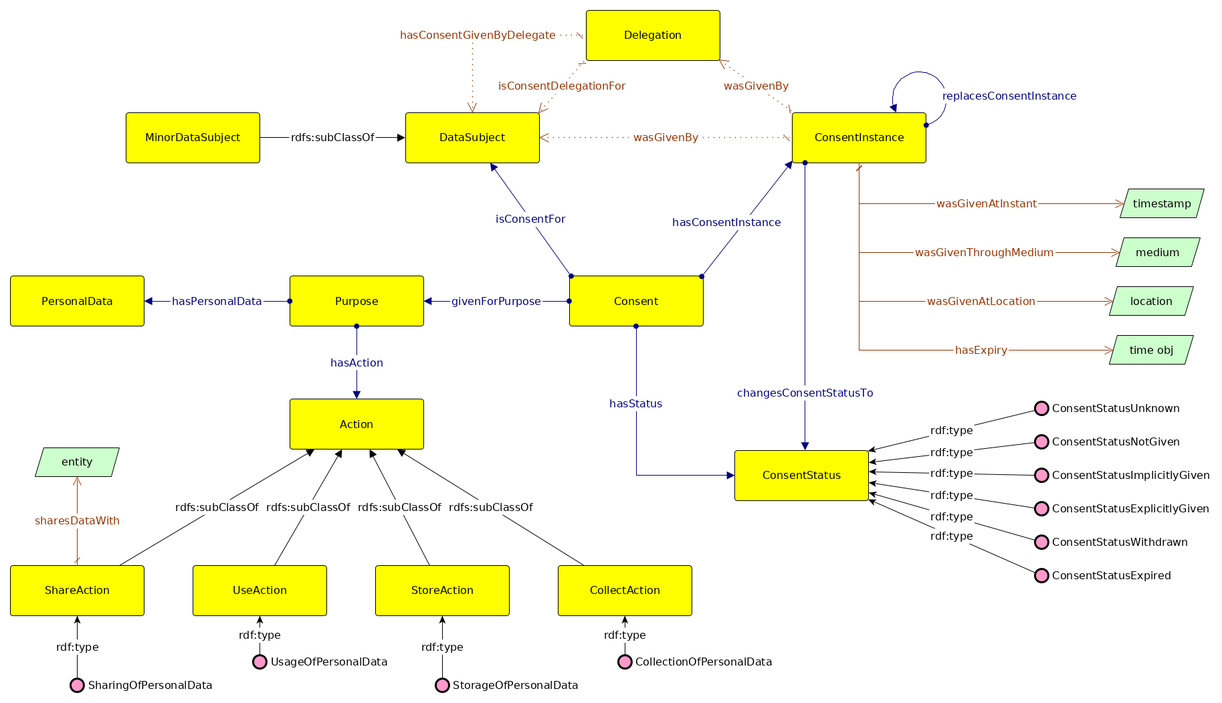
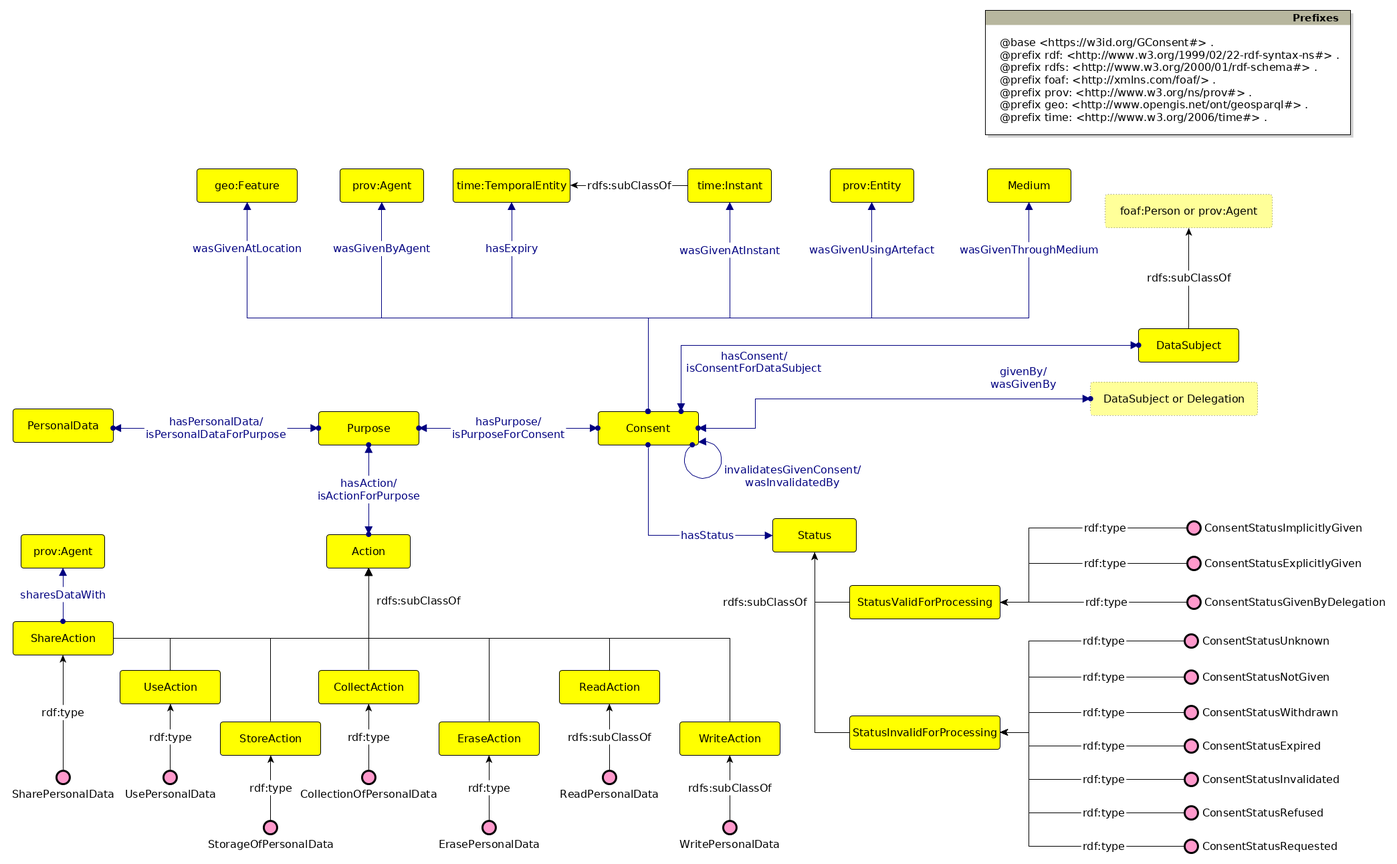
WIP

diff --git a/docs/sections/overview-en.html b/docs/sections/overview-en.html
@@ -2,12 +2,10 @@
 <span class="markdown">
 This ontology has the following classes and properties.</span>
 <h4>Classes</h4>
+<h5>Top-level Concepts</h5>
 <ul class="hlist">
    <li>
       <a href="#Action" title="https://w3id.org/GConsent#Action">Action</a>
-   </li>
-   <li>
-      <a href="#CollectAction" title="https://w3id.org/GConsent#CollectAction">Collect</a>
    </li>
    <li>
       <a href="#Consent" title="https://w3id.org/GConsent#Consent">Consent</a>
@@ -17,14 +15,6 @@ This ontology has the following classes and properties.</span>
    </li>
    <li>
       <a href="#Delegation" title="https://w3id.org/GConsent#Delegation">Delegation</a>
-   </li>
-   <li>
-      <a href="#EraseData" title="https://w3id.org/GConsent#EraseData">Erase</a>
-   </li>
-   <li>
-      <a href="#http://www.w3.org/2006/time#Instant" title="http://www.w3.org/2006/time#Instant">
-         <span>instant</span>
-      </a>
    </li>
    <li>
       <a href="#Medium" title="https://w3id.org/GConsent#Medium">Medium</a>
@@ -39,32 +29,84 @@ This ontology has the following classes and properties.</span>
       <a href="#Purpose" title="https://w3id.org/GConsent#Purpose">Purpose</a>
    </li>
    <li>
-      <a href="#ReadAction" title="https://w3id.org/GConsent#ReadAction">Read</a>
-   </li>
-   <li>
-      <a href="#ShareAction" title="https://w3id.org/GConsent#ShareAction">Share</a>
-   </li>
-   <li>
       <a href="#Status" title="https://w3id.org/GConsent#Status">Status</a>
    </li>
+</ul>
+<h5>Actions</h5>
+<p>Each category or type of action has a default named individual (specified in brackets in the list below) defined in the ontology. For more specitivity, the category can be subclassed, whereas the default named individual can be used to specify the type of action.</p>
+<ul class="hlist">
    <li>
-      <a href="#StatusInvalidForProcessing"
-         title="https://w3id.org/GConsent#StatusInvalidForProcessing">Status invalid for Processing</a>
+      <a href="#CollectAction" title="https://w3id.org/GConsent#CollectAction">Collect</a> (<a href="#CollectPersonalData" title="https://w3id.org/GConsent#CollectPersonalData">Collect Personal Data</a>)
    </li>
    <li>
-      <a href="#StatusValidForProcessing"
-         title="https://w3id.org/GConsent#StatusValidForProcessing">Status valid for Processing</a>
+      <a href="#EraseData" title="https://w3id.org/GConsent#EraseData">Erase</a> (<a href="#ErasePersonalData" title="https://w3id.org/GConsent#ErasePersonalData">Erase Personal Data</a>)
    </li>
    <li>
-      <a href="#StoreAction" title="https://w3id.org/GConsent#StoreAction">Store</a>
+      <a href="#ReadAction" title="https://w3id.org/GConsent#ReadAction">Read</a> (<a href="#ReadPersonalData" title="https://w3id.org/GConsent#ReadPersonalData">Read Personal Data</a>)
    </li>
    <li>
-      <a href="#UseAction" title="https://w3id.org/GConsent#UseAction">Use</a>
+      <a href="#ShareAction" title="https://w3id.org/GConsent#ShareAction">Share</a> (<a href="#SharePersonalData" title="https://w3id.org/GConsent#SharePersonalData">Share Personal Data</a>)
    </li>
    <li>
-      <a href="#WriteAction" title="https://w3id.org/GConsent#WriteAction">Write</a>
+      <a href="#StoreAction" title="https://w3id.org/GConsent#StoreAction">Store</a> (<a href="#StorePersonalData" title="https://w3id.org/GConsent#StorePersonalData">Store Personal Data</a>)
    </li>
-</ul><h4>Object Properties</h4><ul class="hlist">
+   <li>
+      <a href="#UseAction" title="https://w3id.org/GConsent#UseAction">Use</a> (<a href="#UsePersonalData" title="https://w3id.org/GConsent#UsePersonalData">Use Personal Data</a>)
+   </li>
+   <li>
+      <a href="#WriteAction" title="https://w3id.org/GConsent#WriteAction">Write</a> (<a href="#WritePersonalData" title="https://w3id.org/GConsent#WritePersonalData">Write Personal Data</a>)
+   </li>
+</ul>
+<h5>Status</h5>
+<p>Status denotes the state of consent (instance). These are categorised as valid/invalid for the purposes of processing. Each category has some named individuals defined in the ontology specified in the lists below.</p>
+<p><a href="#StatusValidForProcessing"
+         title="https://w3id.org/GConsent#StatusValidForProcessing">Status valid for Processing</a></p>
+<ul class="hlist">
+      <li>
+      <a href="#ConsentStatusExplicitlyGiven"
+         title="https://w3id.org/GConsent#ConsentStatusExplicitlyGiven">Explicitly Given</a>
+   </li>
+   <li>
+      <a href="#ConsentStatusGivenByDelegation"
+         title="https://w3id.org/GConsent#ConsentStatusGivenByDelegation">Given by Delegation</a>
+   </li>
+   <li>
+      <a href="#ConsentStatusImplicitlyGiven"
+         title="https://w3id.org/GConsent#ConsentStatusImplicitlyGiven">Implicitly Given</a>
+   </li>
+</ul>
+<p><a href="#StatusInvalidForProcessing"
+         title="https://w3id.org/GConsent#StatusInvalidForProcessing">Status invalid for Processing</a></p>
+<ul class="hlist">
+     <li>
+      <a href="#ConsentStatusExpired" title="https://w3id.org/GConsent#ConsentStatusExpired">Expired</a>
+   </li>
+     <li>
+      <a href="#ConsentStatusInvalidated"
+         title="https://w3id.org/GConsent#ConsentStatusInvalidated">Invalidated</a>
+   </li>
+   <li>
+      <a href="#ConsentStatusNotGiven" title="https://w3id.org/GConsent#ConsentStatusNotGiven">Not Given</a>
+   </li>
+   <li>
+      
+   </li>
+   <li>
+      <a href="#ConsentStatusRefused" title="https://w3id.org/GConsent#ConsentStatusRefused">Refused</a>
+   </li>
+   <li>
+      <a href="#ConsentStatusRequested" title="https://w3id.org/GConsent#ConsentStatusRequested">Requested</a>
+   </li>
+   <li>
+      <a href="#ConsentStatusUnknown" title="https://w3id.org/GConsent#ConsentStatusUnknown">Unknown</a>
+   </li>
+   <li>
+      <a href="#ConsentStatusWithdrawn" title="https://w3id.org/GConsent#ConsentStatusWithdrawn">Withdrawn</a>
+   </li>
+   <li>
+</ul>
+
+<h4>Object Properties</h4><ul class="hlist">
    <li>
       <a href="#gaveConsent" title="https://w3id.org/GConsent#gaveConsent">gave consent</a>
    </li>
@@ -132,59 +174,10 @@ This ontology has the following classes and properties.</span>
       <a href="#wasInvalidatedBy" title="https://w3id.org/GConsent#wasInvalidatedBy">was invalidated by</a>
    </li>
 </ul><h4>Named Individuals</h4><ul class="hlist">
-   <li>
-      <a href="#CollectPersonalData" title="https://w3id.org/GConsent#CollectPersonalData">Collect Personal Data</a>
-   </li>
-   <li>
-      <a href="#ErasePersonalData" title="https://w3id.org/GConsent#ErasePersonalData">Erase Personal Data</a>
-   </li>
-   <li>
-      <a href="#ConsentStatusExpired" title="https://w3id.org/GConsent#ConsentStatusExpired">Expired</a>
-   </li>
-   <li>
-      <a href="#ConsentStatusExplicitlyGiven"
-         title="https://w3id.org/GConsent#ConsentStatusExplicitlyGiven">Explicitly Given</a>
-   </li>
-   <li>
-      <a href="#ConsentStatusGivenByDelegation"
-         title="https://w3id.org/GConsent#ConsentStatusGivenByDelegation">Given by Delegation</a>
-   </li>
-   <li>
-      <a href="#ConsentStatusImplicitlyGiven"
-         title="https://w3id.org/GConsent#ConsentStatusImplicitlyGiven">Implicitly Given</a>
-   </li>
-   <li>
-      <a href="#ConsentStatusInvalidated"
-         title="https://w3id.org/GConsent#ConsentStatusInvalidated">Invalidated</a>
-   </li>
-   <li>
-      <a href="#ConsentStatusNotGiven" title="https://w3id.org/GConsent#ConsentStatusNotGiven">Not Given</a>
-   </li>
-   <li>
-      <a href="#ReadPersonalData" title="https://w3id.org/GConsent#ReadPersonalData">Read Personal Data</a>
-   </li>
-   <li>
-      <a href="#ConsentStatusRefused" title="https://w3id.org/GConsent#ConsentStatusRefused">Refused</a>
-   </li>
-   <li>
-      <a href="#ConsentStatusRequested" title="https://w3id.org/GConsent#ConsentStatusRequested">Requested</a>
-   </li>
-   <li>
-      <a href="#SharePersonalData" title="https://w3id.org/GConsent#SharePersonalData">Share Personal Data</a>
-   </li>
-   <li>
-      <a href="#StorePersonalData" title="https://w3id.org/GConsent#StorePersonalData">Store Personal Data</a>
-   </li>
-   <li>
-      <a href="#ConsentStatusUnknown" title="https://w3id.org/GConsent#ConsentStatusUnknown">Unknown</a>
-   </li>
-   <li>
-      <a href="#UsePersonalData" title="https://w3id.org/GConsent#UsePersonalData">Use Personal Data</a>
-   </li>
-   <li>
-      <a href="#ConsentStatusWithdrawn" title="https://w3id.org/GConsent#ConsentStatusWithdrawn">Withdrawn</a>
-   </li>
-   <li>
-      <a href="#WritePersonalData" title="https://w3id.org/GConsent#WritePersonalData">Write Personal Data</a>
+
+ 
+
+ 
+      
    </li>
 </ul><iframe align="center" width="100%" height ="500px" src="webvowl/index.html#ontology"></iframe> 

diff --git a/docs/OOPSevaluation/oopsEval.html b/docs/OOPSevaluation/oopsEval.html
@@ -67,7 +67,7 @@ P08. Missing annotations<span style="float: right;">6 cases detected. <span clas
 </div>
 <div id="collapse0" class="panel-collapse collapse">
 <div class="panel-body">
-<p>This pitfall consists in creating an ontology element and failing to provide human readable annotations attached to it. Consequently, ontology elements lack annotation properties that label them (e.g. rdfs:label, lemon:LexicalEntry, skos:prefLabel or skos:altLabel) or that define them (e.g. rdfs:comment or dc:description). This pitfall is related to the guidelines provided in [5].	</p><p>This pitfall affects to the following ontology elements: </p><ul><li><a href="http://www.w3.org/2006/time#TemporalEntity" target="_blank">http://www.w3.org/2006/time#TemporalEntity</a></li><li><a href="http://www.w3.org/2003/01/geo/wgs84_pos#Feature" target="_blank">http://www.w3.org/2003/01/geo/wgs84_pos#Feature</a></li><li><a href="http://www.w3.org/ns/prov#Agent" target="_blank">http://www.w3.org/ns/prov#Agent</a></li><li><a href="http://www.w3.org/2006/time#Instant" target="_blank">http://www.w3.org/2006/time#Instant</a></li><li><a href="http://xmlns.com/foaf/Person" target="_blank">http://xmlns.com/foaf/Person</a></li><li><a href="http://www.w3.org/ns/prov#Entity" target="_blank">http://www.w3.org/ns/prov#Entity</a></li></ul></div>
+<p>This pitfall consists in creating an ontology element and failing to provide human readable annotations attached to it. Consequently, ontology elements lack annotation properties that label them (e.g. rdfs:label, lemon:LexicalEntry, skos:prefLabel or skos:altLabel) or that define them (e.g. rdfs:comment or dc:description). This pitfall is related to the guidelines provided in [5].	</p><p>This pitfall affects to the following ontology elements: </p><ul><li><a href="http://www.w3.org/ns/prov#Agent" target="_blank">http://www.w3.org/ns/prov#Agent</a></li><li><a href="http://www.w3.org/2003/01/geo/wgs84_pos#Feature" target="_blank">http://www.w3.org/2003/01/geo/wgs84_pos#Feature</a></li><li><a href="http://www.w3.org/ns/prov#Entity" target="_blank">http://www.w3.org/ns/prov#Entity</a></li><li><a href="http://www.w3.org/2006/time#Instant" target="_blank">http://www.w3.org/2006/time#Instant</a></li><li><a href="http://www.w3.org/2006/time#TemporalEntity" target="_blank">http://www.w3.org/2006/time#TemporalEntity</a></li><li><a href="http://xmlns.com/foaf/Person" target="_blank">http://xmlns.com/foaf/Person</a></li></ul></div>
 </div>
 </div>
 <div class="panel panel-default">
@@ -91,7 +91,7 @@ P13. Inverse relationships not explicitly declared<span style="float: right;">9 
 </div>
 <div id="collapse2" class="panel-collapse collapse">
 <div class="panel-body">
-<p>This pitfall appears when any relationship (except for those that are defined as symmetric properties using owl:SymmetricProperty) does not have an inverse relationship (owl:inverseOf) defined within the ontology.	</p><p>This pitfall affects to the following ontology elements: </p><ul><li><a href="https://w3id.org/GConsent#hasContext" target="_blank">https://w3id.org/GConsent#hasContext</a></li><li><a href="https://w3id.org/GConsent#wasGivenByAgent" target="_blank">https://w3id.org/GConsent#wasGivenByAgent</a></li><li><a href="https://w3id.org/GConsent#wasGivenThroughMedium" target="_blank">https://w3id.org/GConsent#wasGivenThroughMedium</a></li><li><a href="https://w3id.org/GConsent#hasStatus" target="_blank">https://w3id.org/GConsent#hasStatus</a></li><li><a href="https://w3id.org/GConsent#wasGivenAtLocation" target="_blank">https://w3id.org/GConsent#wasGivenAtLocation</a></li><li><a href="https://w3id.org/GConsent#sharesDataWith" target="_blank">https://w3id.org/GConsent#sharesDataWith</a></li><li><a href="https://w3id.org/GConsent#hasExpiry" target="_blank">https://w3id.org/GConsent#hasExpiry</a></li><li><a href="https://w3id.org/GConsent#wasGivenAtInstant" target="_blank">https://w3id.org/GConsent#wasGivenAtInstant</a></li><li><a href="https://w3id.org/GConsent#wasGivenUsingArtefact" target="_blank">https://w3id.org/GConsent#wasGivenUsingArtefact</a></li><ul></div>
+<p>This pitfall appears when any relationship (except for those that are defined as symmetric properties using owl:SymmetricProperty) does not have an inverse relationship (owl:inverseOf) defined within the ontology.	</p><p>This pitfall affects to the following ontology elements: </p><ul><li><a href="https://w3id.org/GConsent#wasGivenAtLocation" target="_blank">https://w3id.org/GConsent#wasGivenAtLocation</a></li><li><a href="https://w3id.org/GConsent#hasExpiry" target="_blank">https://w3id.org/GConsent#hasExpiry</a></li><li><a href="https://w3id.org/GConsent#wasGivenUsingArtefact" target="_blank">https://w3id.org/GConsent#wasGivenUsingArtefact</a></li><li><a href="https://w3id.org/GConsent#hasStatus" target="_blank">https://w3id.org/GConsent#hasStatus</a></li><li><a href="https://w3id.org/GConsent#wasGivenAtInstant" target="_blank">https://w3id.org/GConsent#wasGivenAtInstant</a></li><li><a href="https://w3id.org/GConsent#sharesDataWith" target="_blank">https://w3id.org/GConsent#sharesDataWith</a></li><li><a href="https://w3id.org/GConsent#wasGivenThroughMedium" target="_blank">https://w3id.org/GConsent#wasGivenThroughMedium</a></li><li><a href="https://w3id.org/GConsent#wasGivenByAgent" target="_blank">https://w3id.org/GConsent#wasGivenByAgent</a></li><li><a href="https://w3id.org/GConsent#hasContext" target="_blank">https://w3id.org/GConsent#hasContext</a></li><ul></div>
 </div>
 </div>
 <div class="panel panel-default">

diff --git a/docs/sections/introduction-en.html b/docs/sections/introduction-en.html
@@ -1,28 +1,55 @@
 <h2 id="intro" class="list">Introduction <span class="backlink"> back to <a href="#toc">ToC</a></span></h2>
-<span class="markdown">
-This is a place holder text for the introduction. The introduction should briefly describe the ontology, its motivation, state of the art and goals.</span>
+<p>The General Data Protection Regulation (GDPR)
+<a href="#european_parliament_and_council_regulation_2016">[1]</a> is the current
+European data protection law enforced from 25<sup>th</sup> May 2018. It affects
+any service or organisation that uses personal data, and has large fines
+to deter non-compliance. Consent is one of the legal basis for using
+personal data under the GDPR (Art.6). Consent is considered valid only
+when it is freely given, specific, informed, and unambiguous (Art.2-11);
+and in the case of minors to be given by their legal guardian (Art.8).
+GDPR also provides rights regarding changing and withdrawing consent at
+any time. To demonstrate compliance with these obligations, Data
+Controllers should maintain a demonstrable proof of the given consent
+<a href="#tikkinen-piri_eu_2018">[2]</a> by collecting and storing information on how
+consent was collected, used, and invalidated <a href="#mittal_role_2017">[3]</a>.</p>
+<p>Semantic Web technologies are ideal for representing this information
+because of its flexibility in expressing concepts and relationships,
+e.g. using the Web Ontology Language - OWL2, using a standardised model
+for data - i.e. the Resource Description Framework (RDF). Existing work
+<a href="#bartolini_reconciling_2015">[4]</a>, <a href="#fatema_compliance_2017">[5]</a>, <a href="#pandit_modelling_2017">[6]</a>, <a href="#pandit_gdprtext_2018">[7]</a>, <a href="#belhajjame_provenance_2018">[8]</a>, <a href="#palmirani_pronto:_2018">[9]</a>, <a href="#bonatti_special_2018">[10]</a>, <a href="#kirrane_scalable_2018">[11]</a> 
+has demonstrated the feasibility of using semantic web technologies for
+representing and querying metadata for assisting with the GDPR
+compliance process. Our previous work presented the Consent and Data
+Management Model (CDMM) <a href="#fatema_compliance_2017">[5]</a> as a framework for
+information related to GDPR and its compliance using semantic web
+technologies, which included a preliminary OWL2 ontology for
+representing consent.</p>
+<p>Through this documentation, we present the GConsent OWL2 ontology for representing
+consent based on the preliminary ontology part of CDMM
+<a href="#fatema_compliance_2017">[5]</a>. The documentation also presents a discussion of the
+GConsent’s modelling of concepts and relationships for demonstrating
+compliance to the various obligations stipulated by the GDPR regarding
+consent. </p>
+
 <div id="namespacedeclarations">
 <h3 id="ns" class="list">Namespace declarations</h3>
 <div id="ns" align="center">
 <table>
 <caption> <a href="#ns"> Table 1</a>: Namespaces used in the document </caption>
 <tbody>
-<tr><td><b>w3id-org</b></td><td>&lt;https://w3id.org/&gt;</td></tr>
+<tr><td><b>rdf</b></td><td>&lt;http://www.w3.org/1999/02/22-rdf-syntax-ns#&gt;</td></tr>
+<tr><td><b>rdfs</b></td><td>&lt;http://www.w3.org/2000/01/rdf-schema#&gt;</td></tr>
 <tr><td><b>owl</b></td><td>&lt;http://www.w3.org/2002/07/owl#&gt;</td></tr>
 <tr><td><b>xsd</b></td><td>&lt;http://www.w3.org/2001/XMLSchema#&gt;</td></tr>
-<tr><td><b>rdfs</b></td><td>&lt;http://www.w3.org/2000/01/rdf-schema#&gt;</td></tr>
-<tr><td><b>wgs84-pos</b></td><td>&lt;http://www.w3.org/2003/01/geo/wgs84_pos#&gt;</td></tr>
-<tr><td><b>rdf</b></td><td>&lt;http://www.w3.org/1999/02/22-rdf-syntax-ns#&gt;</td></tr>
 <tr><td><b>terms</b></td><td>&lt;http://purl.org/dc/terms/&gt;</td></tr>
-<tr><td><b>bibo</b></td><td>&lt;http://purl.org/ontology/bibo/&gt;</td></tr>
-<tr><td><b>time</b></td><td>&lt;http://www.w3.org/2006/time#&gt;</td></tr>
-<tr><td><b>gconsent</b></td><td>&lt;http://openscience.adaptcentre.ie/ontologies/GConsent/&gt;</td></tr>
-<tr><td><b>vann</b></td><td>&lt;http://purl.org/vocab/vann/&gt;</td></tr>
-<tr><td><b>prov</b></td><td>&lt;http://www.w3.org/ns/prov#&gt;</td></tr>
 <tr><td><b>foaf</b></td><td>&lt;http://xmlns.com/foaf/0.1/&gt;</td></tr>
-<tr><td><b>ontologies</b></td><td>&lt;http://purl.org/adaptcentre/openscience/ontologies/&gt;</td></tr>
-<tr><td><b>gconsent</b></td><td>&lt;https://w3id.org/GConsent#&gt;</td></tr>
+<tr><td><b>bibo</b></td><td>&lt;http://purl.org/ontology/bibo/&gt;</td></tr>
 <tr><td><b>status</b></td><td>&lt;http://purl.org/ontology/bibo/status/&gt;</td></tr>
+<tr><td><b>prov</b></td><td>&lt;http://www.w3.org/ns/prov#&gt;</td></tr>
+<tr><td><b>vann</b></td><td>&lt;http://purl.org/vocab/vann/&gt;</td></tr>
+<tr><td><b>time</b></td><td>&lt;http://www.w3.org/2006/time#&gt;</td></tr>
+<tr><td><b>wgs84-pos</b></td><td>&lt;http://www.w3.org/2003/01/geo/wgs84_pos#&gt;</td></tr>
+<tr style="background-color: #DDDDFF;"><td><b>gconsent</b></td><td>&lt;https://w3id.org/GConsent#&gt;</td></tr>
 </tbody>
 </table>
 </div>

diff --git a/docs/index-en.html b/docs/index-en.html
@@ -6,7 +6,7 @@
 
 
 <!-- SCHEMA.ORG METADATA -->
-<script type="application/ld+json">{"@context":"http://schema.org","@type":"TechArticle","url":"https://w3id.org/GConsent#","image":"http://vowl.visualdataweb.org/webvowl/#iri=https://w3id.org/GConsent#","name":"GConsent - a consent ontology based on the GDPR", "headline":"Consent is one of the legal basis for processing personal data under the General Data Protection Regulation (GDPR), which is the current Eurpoean data protection law enforced from 25th May 2018. GDPR stipulates obligations on how consent should be obtained, used, modified, and recorded. Additionally, it provides data subjects with the right to modify or withdraw their consent at any time. Demonstrating compliance to these rights and obligations requires maintaining information about the consent lifecycle. Existing work has demonstrated the feasibility of using semantic web technologies to represent and query this information. GConsent is an OWL2-QL ontology for representing consent for GDPR compliance. The ontology is based on an analysis of modelling metadata requirements related to the consent lifecycle for GDPR compliance. It allows modelling and representation of information related to compliance in an extensible and comprehensive manner.", "datePublished":"2018-09-07", "version":"0.5", "license":"https://creativecommons.org/licenses/by/4.0/", "author":[{"@type":"Person","name":"Harshvardhan J. Pandit","url":"https://harshp.com/i/me#HJP"}]}</script>
+<script type="application/ld+json">{"@context":"http://schema.org","@type":"TechArticle","url":"https://w3id.org/GConsent#","image":"http://vowl.visualdataweb.org/webvowl/#iri=https://w3id.org/GConsent#","name":"GConsent - a consent ontology based on the GDPR", "headline":"Consent is one of the legal basis for processing personal data under the General Data Protection Regulation (GDPR), which is the current Eurpoean data protection law enforced from 25th May 2018. GDPR stipulates obligations on how consent should be obtained, used, modified, and recorded. Additionally, it provides data subjects with the right to modify or withdraw their consent at any time. Demonstrating compliance to these rights and obligations requires maintaining information about the consent lifecycle. Existing work has demonstrated the feasibility of using semantic web technologies to represent and query this information. GConsent is an OWL2 ontology for representing consent for GDPR compliance. The ontology is based on an analysis of modelling metadata requirements related to the consent lifecycle for GDPR compliance. It allows modelling and representation of information related to compliance in an extensible and comprehensive manner.", "datePublished":"2018-10-31", "version":"0.5", "license":"https://creativecommons.org/licenses/by/4.0/", "author":[{"@type":"Person","name":"Harshvardhan J. Pandit","url":"https://harshp.com/i/me#HJP"}]}</script>
 
 <script src="resources/jquery.js"></script> 
 <script src="resources/marked.min.js"></script> 
@@ -54,12 +54,12 @@ function loadTOC(){
     </script> 
   </head> 
 
-<body>
+<body style="max-width: 800px; margin: auto;">
 <div class="container">
 <div class="head">
 <div style="float:right">language <a href="index-en.html"><b>en</b></a> </div>
-<h1>GConsent - a consent ontology based on the GDPR</h1>
-<h2>Release  2018-09-07</h2>
+<h1><img src="../logo.png" style="max-width:50px; padding-right: 20px;">GConsent - a consent ontology based on the GDPR</h1>
+<h2>Release  2018-10-31</h2>
 
 
 <dl>
@@ -71,7 +71,8 @@ function loadTOC(){
 <dd>0.5</dd>
 <dt>Authors:</dt>
 <dd><a href="https://harshp.com/i/me#HJP">Harshvardhan J. Pandit</a>, (<a href="https://tcd.ie/">Trinity College Dublin</a>)</dd>
-
+<dt>Contributors:</dt>
+<dd>Kaniz Fatema, Christophe Debruyne, Pat McBennett</dd>
 <dt>Publisher:</dt>
 <dd><a href="https://adaptcentre.ie/">ADAPT Centre</a>, (<a href="https://tcd.ie/">Trinity College Dublin</a>)</dd>
 <dt>Download serialization:</dt><dd><span><a href="ontology.json" target="_blank"><img src="https://img.shields.io/badge/Format-JSON_LD-blue.svg" alt="JSON-LD" /></a> </span><span><a href="ontology.xml" target="_blank"><img src="https://img.shields.io/badge/Format-RDF/XML-blue.svg" alt="RDF/XML" /></a> </span><span><a href="ontology.nt" target="_blank"><img src="https://img.shields.io/badge/Format-N_Triples-blue.svg" alt="N-Triples" /></a> </span><span><a href="ontology.ttl" target="_blank"><img src="https://img.shields.io/badge/Format-TTL-blue.svg" alt="TTL" /></a> </span></dd><dt>License: </dt><dd><a href="https://creativecommons.org/licenses/by/4.0/" target="_blank"><img src="https://img.shields.io/badge/License-CC_by_4.0-blue.svg" alt="https://creativecommons.org/licenses/by/4.0/" /></a>

diff --git a/docs/sections/references-en.html b/docs/sections/references-en.html
@@ -1,3 +1,54 @@
+<div id="related-work">
+<h2 id="related-work-rw" class="list">Related Work<span class="backlink"> back to <a href="#toc">ToC</a></span></h2>
+</div>
+
 <h2 id="ref" class="list">References <span class="backlink"> back to <a href="#toc">ToC</a></span></h2>
-<span class="markdown">
-Add your references here. It is recommended to have them as a list.</span>
+<ol>
+	<li id="european_parliament_and_council_regulation_2015">European Parliament and Council. Regulation (EU) 2016/679 of the Euro-
+pean Parliament and of the Council of 27 April 2016 on the protection of
+natural persons with regard to the processing of personal data and on the free
+movement of such data, and repealing Directive 95/46/EC (General Data
+Protection Regulation). Official Journal of the European Union, L119:1–88,
+May 2016</li>
+	<li id="tikkinen-piri_eu_2018">C. Tikkinen-Piri, A. Rohunen, and J. Markkula. EU General Data Protection
+Regulation: Changes and implications for personal data collecting companies.
+Computer Law & Security Review, 34(1):134–153, Feb. 2018.</li>
+	<li id="mittal_role_2017">S. Mittal and P. P. Sharma. The Role of Consent in Legitimising the Pro-
+cessing of Personal Data Under the Current EU Data Protection Framework.
+Asian Journal of Computer Science And Information Technology 7, pages
+76–78, Aug. 2017.</li>
+	<li id="bartolini_reconciling_2015">C. Bartolini and R. Muthuri. Reconciling Data Protection Rights and Obli-
+gations: An Ontology of the Forthcoming EU Regulation. In Workshop on
+Language and Semantic Technology for Legal Domain, page 8, 2015.</li>
+	<li id="fatema_compliance_2017">K. Fatema, E. Hadziselimovic, H. J. Pandit, C. Debruyne, D. Lewis, and
+D. O’Sullivan. Compliance through Informed Consent: Semantic Based Con-
+sent Permission and Data Management Model. In Proceedings of the 5th
+Workshop on Society, Privacy and the Semantic Web - Policy and Technology
+(PrivOn2017) (PrivOn), 2017.</li>
+	<li id="pandit_modelling_2017">H. J. Pandit and D. Lewis. Modelling Provenance for GDPR Compliance
+using Linked Open Data Vocabularies. In Proceedings of the 5th Work-
+shop on Society, Privacy and the Semantic Web - Policy and Technology
+(PrivOn2017) (PrivOn), 2017.</li>
+	<li id="pandit_gdprtext_2018">H. J. Pandit, K. Fatema, D. O’Sullivan, and D. Lewis. GDPRtEXT - GDPR
+as a Linked Data Resource. In The Semantic Web - European Semantic Web
+Conference, Lecture Notes in Computer Science, pages 481–495. Springer,
+Cham, June 2018.</li>
+	<li id="belhajjame_provenance_2018">B. E. Ujcich, A. Bates, and W. H. Sanders. A Provenance Model for the
+European Union General Data Protection Regulation. In K. Belhajjame,
+A. Gehani, and P. Alper, editors, Provenance and Annotation of Data and
+Processes, volume 11017, pages 45–57, Cham, 2018. Springer International
+Publishing.</li>
+	<li id="palmirani_pronto:_2018">M. Palmirani, M. Martoni, A. Rossi, C. Bartolini, and L. Robaldo. PrOnto:
+Privacy Ontology for Legal Reasoning. In A. Kő and E. Francesconi, edi-
+tors, Electronic Government and the Information Systems Perspective, Lec-
+ture Notes in Computer Science, pages 139–152. Springer International Pub-
+lishing, 2018.</li>
+	<li id="bonatti_special_2018">P. A. Bonatti, S. Kirrane, I. M. Petrova, L. Sauro, and
+E. Schlehahn.
+The SPECIAL Usage Policy Language, V0.1.
+https://www.specialprivacy.eu/vocabs. Technical report, 2018.</li>
+	<li id="kirrane_scalable_2018">S. Kirrane, J. D. Fernández, W. Dullaert, U. Milosevic, A. Polleres, P. Bon-
+atti, R. Wenning, O. Drozd, and P. Raschke. A Scalable Consent, Trans-
+parency and Compliance Architecture. In Proceedings of the Posters and
+Demos Track of the Extended Semantic Web Conference (ESWC 2018), 2018.</li>
+</ol>

diff --git a/docs/sections/abstract-en.html b/docs/sections/abstract-en.html
@@ -1,2 +1,2 @@
 <h2>Abstract</h2><span class="markdown">
-Consent is one of the legal basis for processing personal data under the General Data Protection Regulation (GDPR), which is the current Eurpoean data protection law enforced from 25th May 2018. GDPR stipulates obligations on how consent should be obtained, used, modified, and recorded. Additionally, it provides data subjects with the right to modify or withdraw their consent at any time. Demonstrating compliance to these rights and obligations requires maintaining information about the consent lifecycle. Existing work has demonstrated the feasibility of using semantic web technologies to represent and query this information. GConsent is an OWL2-QL ontology for representing consent for GDPR compliance. The ontology is based on an analysis of modelling metadata requirements related to the consent lifecycle for GDPR compliance. It allows modelling and representation of information related to compliance in an extensible and comprehensive manner.</span>
+Consent is one of the legal basis for processing personal data under the General Data Protection Regulation (GDPR), which is the current Eurpoean data protection law enforced from 25th May 2018. GDPR stipulates obligations on how consent should be obtained, used, modified, and recorded. Additionally, it provides data subjects with the right to modify or withdraw their consent at any time. Demonstrating compliance to these rights and obligations requires maintaining information about the consent lifecycle. Existing work has demonstrated the feasibility of using semantic web technologies to represent and query this information. GConsent is an OWL2 ontology for representing consent for GDPR compliance. The ontology is based on an analysis of modelling metadata requirements related to the consent lifecycle for GDPR compliance. It allows modelling and representation of information related to compliance in an extensible and comprehensive manner.</span>

diff --git a/docs/provenance/provenance-en.html b/docs/provenance/provenance-en.html
@@ -12,7 +12,7 @@
 	<li>Ontology created by: :
  Harshvardhan J. Pandit (Trinity College Dublin),</li><li>https://w3id.org/GConsent/v/0.5 is a specialization of the generic URI https://w3id.org/GConsent#</li>
 <li>The ontology documentation was the result of using the <a href="https://github.com/dgarijo/Widoco">Widoco tool</a> (which itself uses <a href="http://www.essepuntato.it/lode/">LODE</a> for generating the crossreference section).</li>
-<li>The documentation was generated at 2018-09-07</ul>
+<li>The documentation was generated at 2018-10-31</ul>
 </div>
 <p>back to <a href="..\index-en.html">documentation</a>. <a href="provenance-en.ttl">TTL format</a></p></div>
 </body> 

diff --git a/docs/sections/description-en.html b/docs/sections/description-en.html
@@ -1,3 +1,4 @@
 <h2 id="desc" class="list">GConsent - a consent ontology based on the GDPR: Description <span class="backlink"> back to <a href="#toc">ToC</a></span></h2>
+<img src="../diagrams/ontology.png" style="max-width: 800px; margin: auto;"/>
 <span class="markdown">
-This is a placeholder text for the description of your ontology. The description should include an explanation and a diagram explaining how the classes are related, examples of usage, etc.</span>
+</span>
